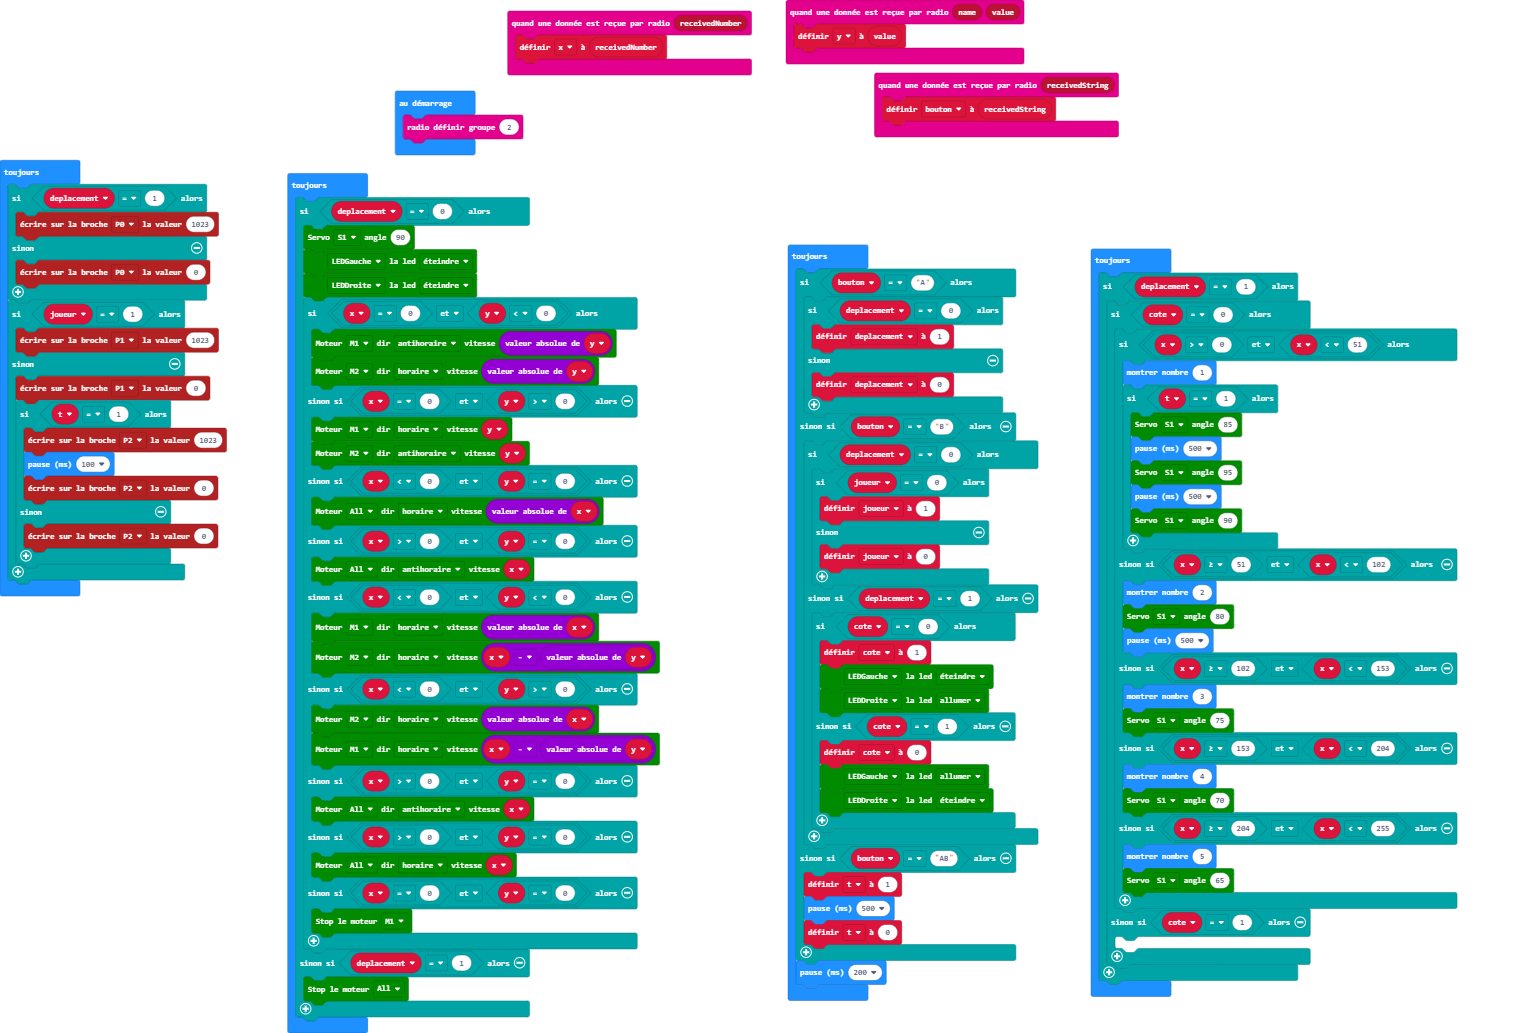
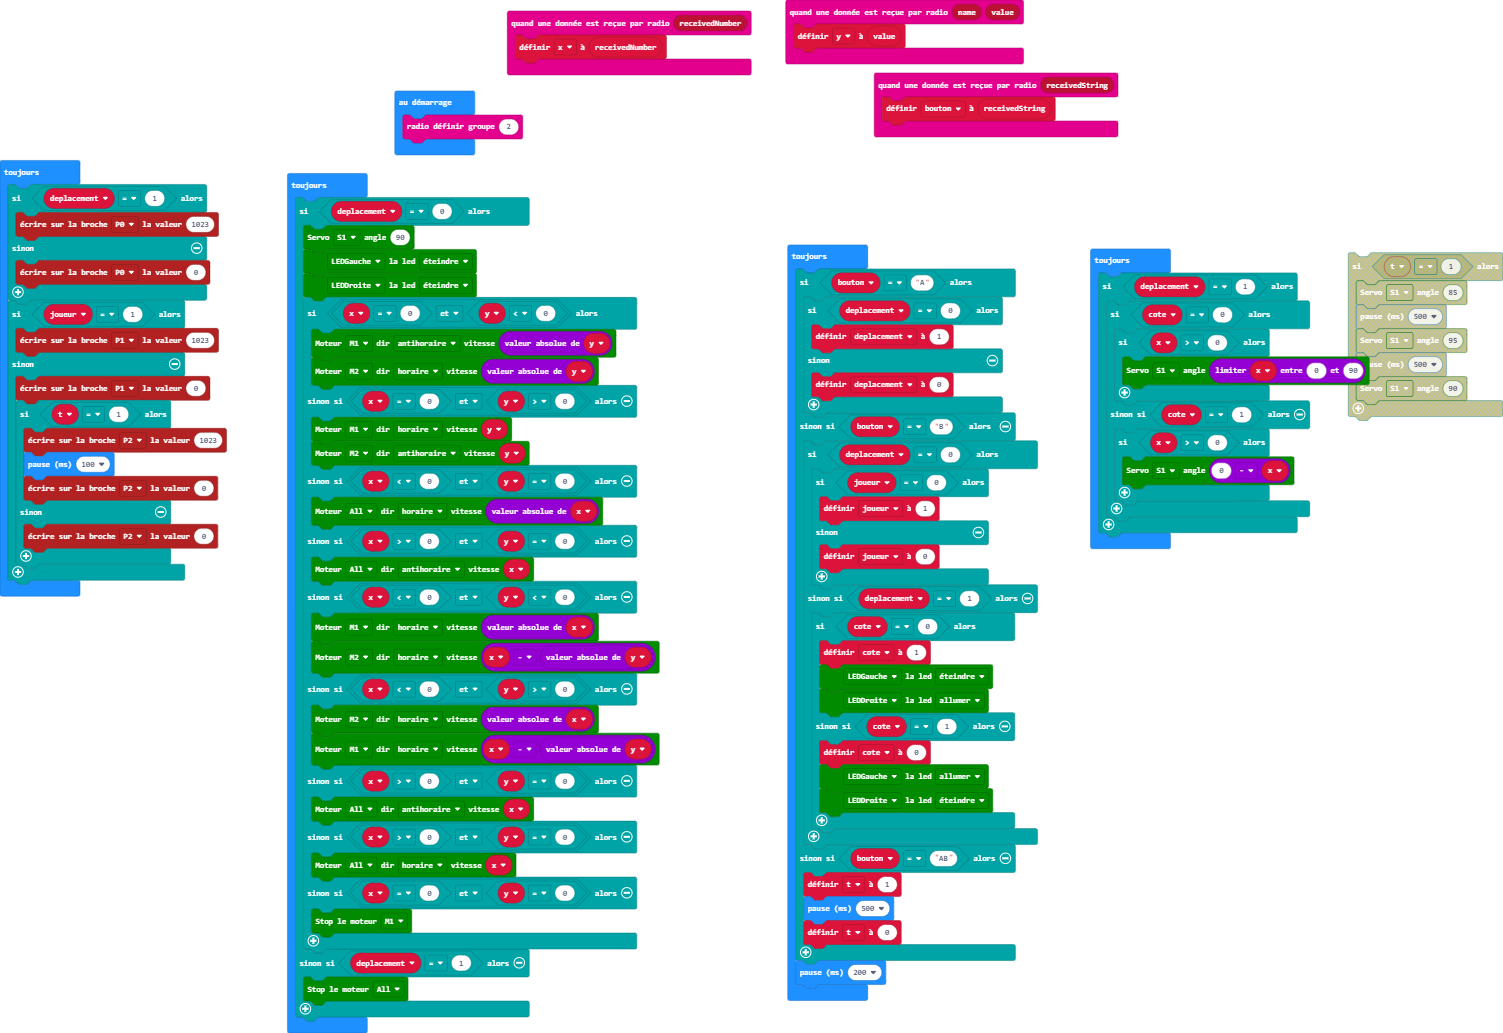
Mise à jour main.blocks, main.ts

diff --git a/main.ts b/main.ts
@@ -101,31 +101,13 @@ basic.forever(function () {
 basic.forever(function () {
     if (deplacement == 1) {
         if (cote == 0) {
-            if (x > 0 && x < 51) {
-                basic.showNumber(1)
-                if (t == 1) {
-                    maqueen.servoRun(maqueen.Servos.S1, 85)
-                    basic.pause(500)
-                    maqueen.servoRun(maqueen.Servos.S1, 95)
-                    basic.pause(500)
-                    maqueen.servoRun(maqueen.Servos.S1, 90)
-                }
-            } else if (x >= 51 && x < 102) {
-                basic.showNumber(2)
-                maqueen.servoRun(maqueen.Servos.S1, 80)
-                basic.pause(500)
-            } else if (x >= 102 && x < 153) {
-                basic.showNumber(3)
-                maqueen.servoRun(maqueen.Servos.S1, 75)
-            } else if (x >= 153 && x < 204) {
-                basic.showNumber(4)
-                maqueen.servoRun(maqueen.Servos.S1, 70)
-            } else if (x >= 204 && x < 255) {
-                basic.showNumber(5)
-                maqueen.servoRun(maqueen.Servos.S1, 65)
+            if (x > 0) {
+                maqueen.servoRun(maqueen.Servos.S1, Math.constrain(x, 0, 90))
             }
         } else if (cote == 1) {
-        	
+            if (x > 0) {
+                maqueen.servoRun(maqueen.Servos.S1, 0 - x)
+            }
         }
     }
 })
